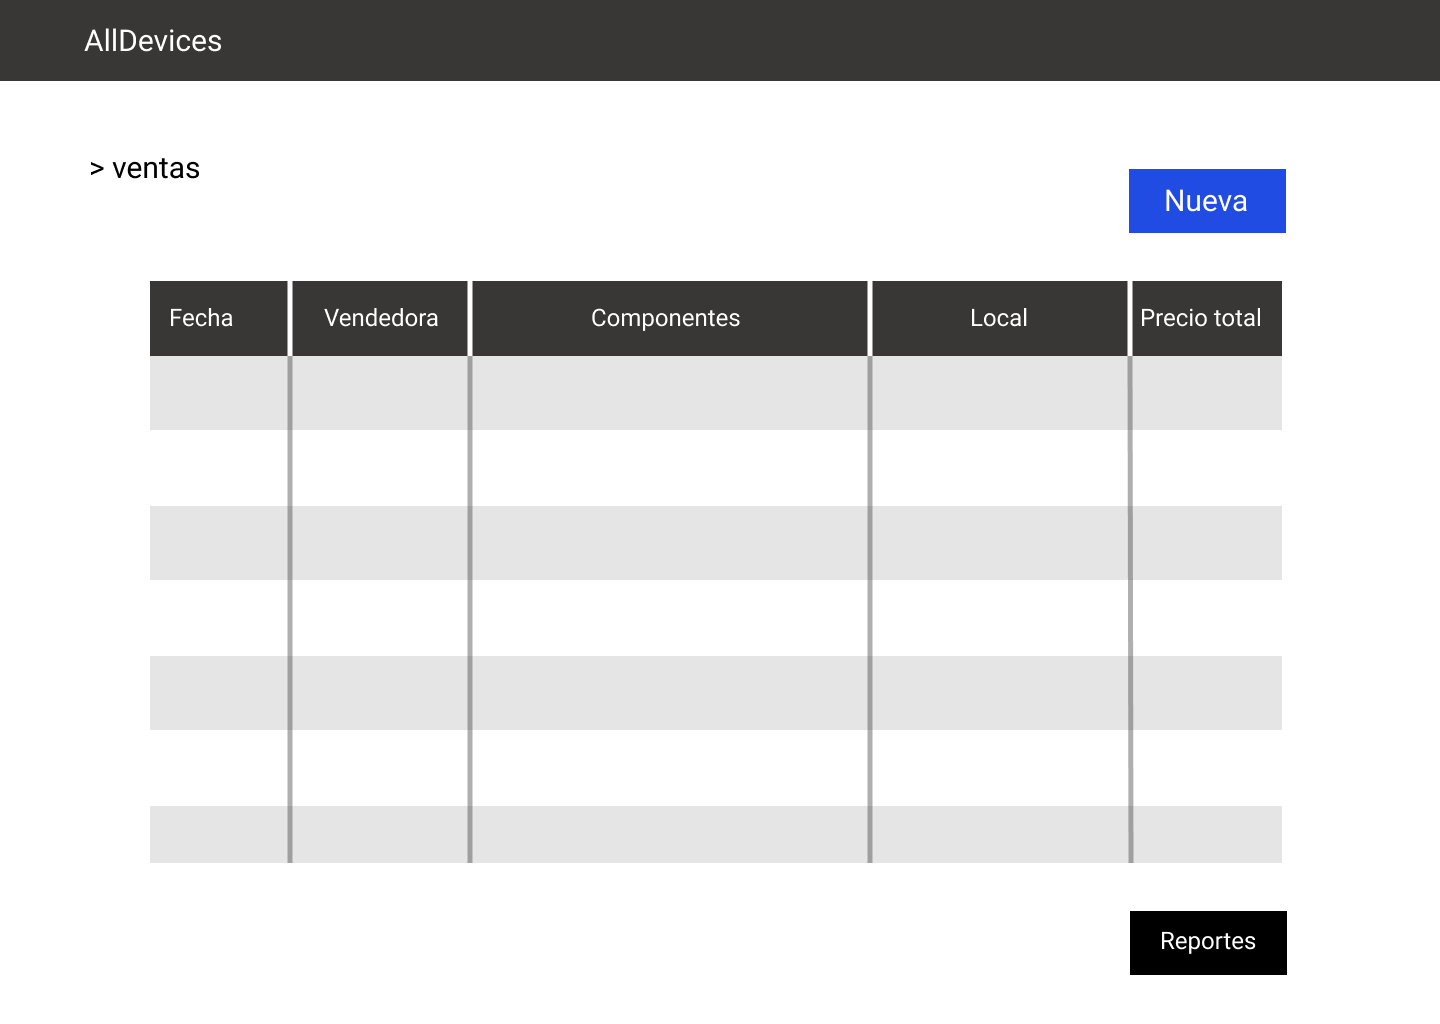
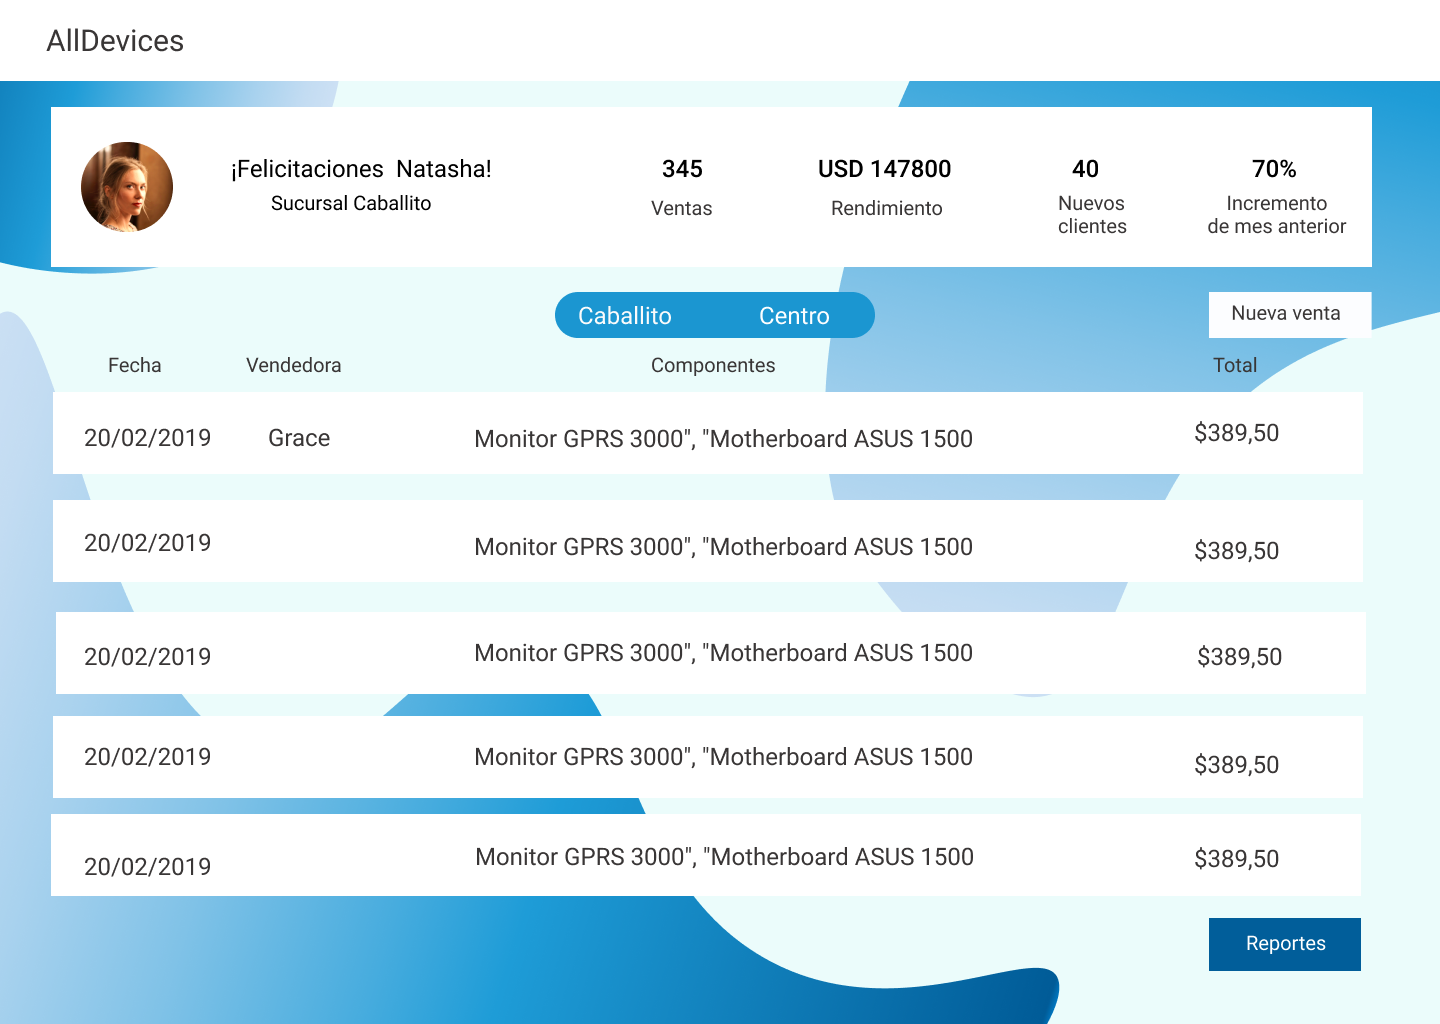
adelantos en el maquetado

diff --git a/styles/styles.css b/styles/styles.css
@@ -22,9 +22,10 @@ time, mark, audio, video, a {
 
 body {
   font-family: "Roboto", sans-serif;
+  background: url(img/background-img.png) no-repeat;
 }
 body .brand {
-  color: #ffffff;
+  color: #393636;
   font-size: 120%;
   text-align: center;
   text-decoration: none;
@@ -33,13 +34,13 @@ body .brand {
 body header nav {
   width: 100%;
   height: 200%;
-  background-color: #393636;
+  background-color: #FFFFFF;
   display: block;
   padding: 1.2%;
 }
 
 .container {
-  width: 80%;
+  width: 90%;
   height: 70%;
   max-width: 1400px;
   min-width: 420px;
@@ -51,30 +52,58 @@ body header nav {
   right: 0;
 }
 
-.first-module {
-  width: 100%;
-  height: 20px;
+.seller-month {
   display: flex;
-  flex-direction: row;
-  justify-content: space-between;
-  justify-items: baseline;
+  justify-content: space-evenly;
+  align-items: center;
+  width: 100%;
+  height: 30%;
+  background-color: #FFFFFF;
 }
-.first-module .new-sale {
-  width: 80px;
-  height: 40px;
-  background-color: #214CE3;
-  font-size: 100%;
+
+.seller-text {
   text-align: center;
-  text-decoration: none;
-  line-height: 40px;
-  color: #ffffff;
+  align-items: center;
 }
-.first-module a {
-  font-size: 100%;
-  text-align: center;
-  text-decoration: none;
-  line-height: 40px;
-  color: #ffffff;
+.seller-text .seller-main-text {
+  font-weight: bold;
+  margin-bottom: 6%;
+}
+
+.action-bottons {
+  display: flex;
+  justify-content: center;
+  margin-top: 16%;
+  border-radius: 5%;
+}
+
+.new-sale {
+  margin-left: 30%;
+  background-color: #FFFFFF;
+}
+
+.categories {
+  display: flex;
+  justify-content: space-evenly;
+  margin-top: 2%;
+  width: 98%;
+}
+
+.sells {
+  background-color: #FFFFFF;
+  height: 10%;
+  align-items: center;
+  align-self: center;
+}
+
+.report-btn {
+  display: flex;
+  justify-content: end;
+  align-items: flex-end;
+}
+
+.sellers {
+  height: 100%;
 }
 
 /*# sourceMappingURL=styles.css.map */

diff --git a/styles/styles.scss b/styles/styles.scss
@@ -31,8 +31,9 @@ time, mark, audio, video, a {
 
 body {
     font-family: 'Roboto', sans-serif;
+    background: url(img/background-img.png) no-repeat;
     .brand{
-        color: #ffffff;
+        color: #393636;
         font-size: 120%;
         text-align: center;
         text-decoration: none; 
@@ -42,7 +43,7 @@ body {
         nav{
         width: 100%;
         height: 200%;
-        background-color: #393636;
+        background-color: #FFFFFF;
         display: block;
         padding:1.2%
         }
@@ -50,7 +51,7 @@ body {
 }
 
 .container{
-    width: 80%;
+    width: 90%;
     height: 70%;
     max-width: 1400px;
     min-width: 420px;
@@ -62,23 +63,57 @@ body {
     right: 0;
 }
 
-.first-module{
-    width: 100%;
-    height: 20px;
+.seller-month{
     display: flex;
-    flex-direction: row;
-    justify-content: space-between;
-    justify-items: baseline;
+    justify-content: space-evenly;
+    align-items: center;
+    width: 100%;
+    height: 30%;
+    background-color: #FFFFFF;
+}
 
-    .new-sale{
-    width: 80px;
-    height: 40px;
-    background-color: #214CE3;
-    @include text-buttons;
+.seller-text{
+    text-align: center;
+    align-items: center;
+    .seller-main-text{
+        font-weight: bold;
+        margin-bottom: 6%;
     }
+}
 
-    a{
-        @include text-buttons;
-    }
+.action-bottons{
+    display: flex;
+    justify-content: center;
+    margin-top: 16%;
+    border-radius: 5%;
+}
 
+.new-sale{
+    margin-left:30%;
+    background-color: #FFFFFF;
+}
+
+.categories{
+    display: flex;
+    justify-content: space-evenly;
+    margin-top: 2%;
+    width: 98%;
+}
+
+.sells{
+    background-color:#FFFFFF;
+    height: 10%; 
+    align-items: center;
+    align-self: center;     
+}
+
+.report-btn{
+    display: flex;
+    justify-content: end;
+    align-items: flex-end;
+}
+
+.sellers{
+    height: 100%;
+         
 }
